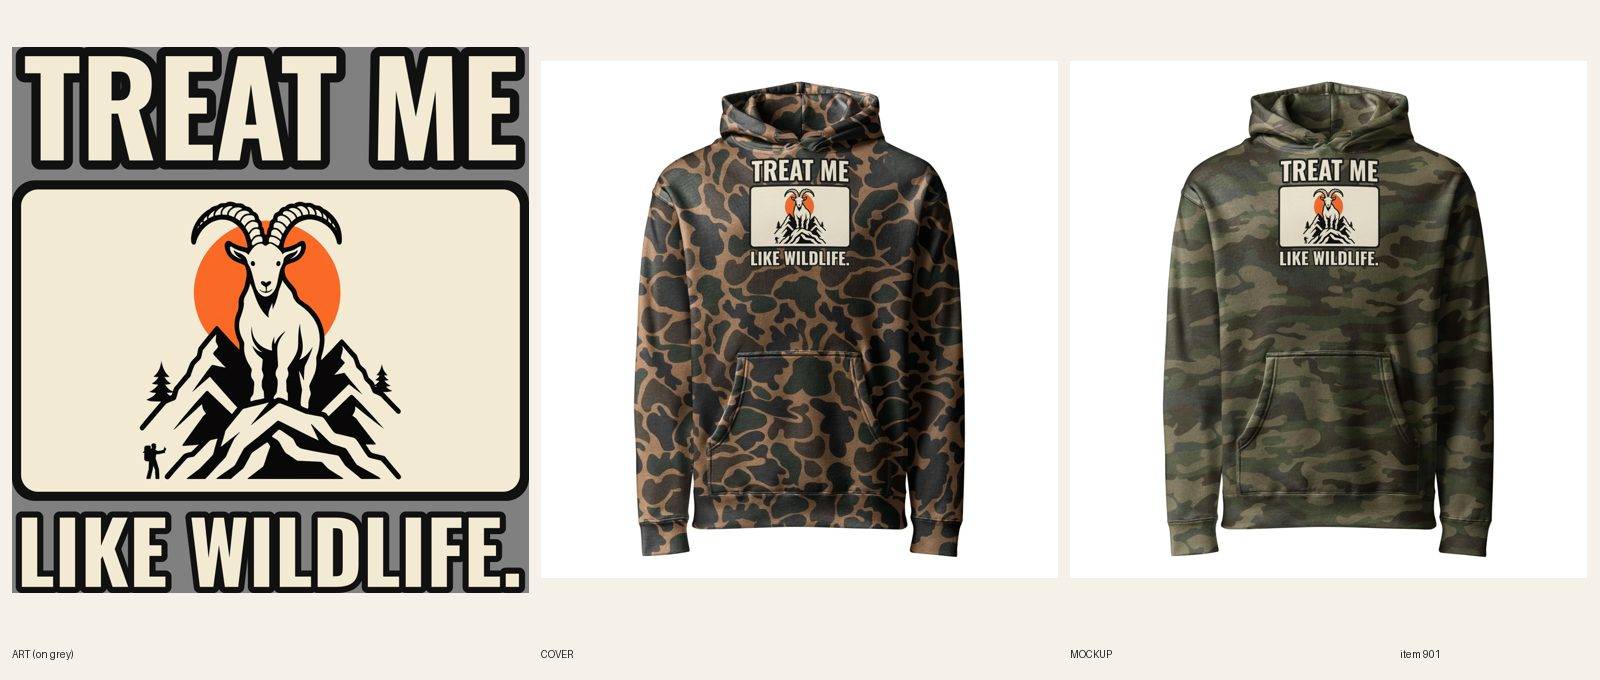
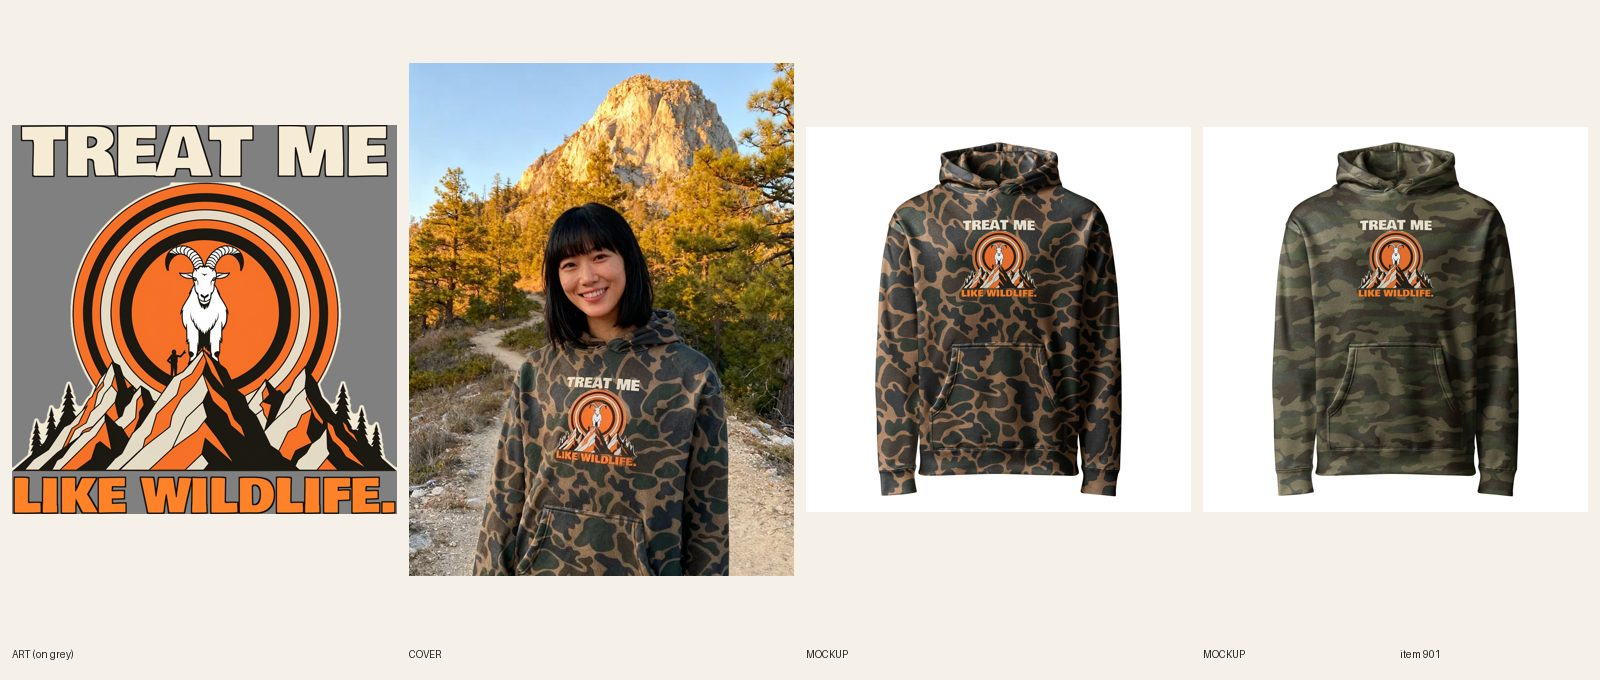
[B] review 901 camo redo 11 (retro goat A+ print, lifestyle photos)
Claude-Session: https://claude.ai/code/session_01JmH7HE2vEXJPHQjsQo1sTm

diff --git a/docs/pipeline/901-camo-twin-treat-me-like-wildlife.md b/docs/pipeline/901-camo-twin-treat-me-like-wildlife.md
@@ -1,4 +1,4 @@
-status: REDO
+status: REVIEW
 shopify: gid://shopify/Product/15372534874416
 cover: fal-swap
 lane: B
@@ -31,3 +31,4 @@ push: camo
 - 2026-10-22 23:16 UTC director: LIVE (ACTIVE + Online Store, Headless, Google & YouTube); cohesion-audit --handle PASS (1 warn: no lifestyle cover). Drip cap: today's 6 (#907 #908 #900 #901 #902 #955).
 - 2026-10-22 22:00 UTC Claude (Sam): REDO, camo redo #11 of 27, style S4. New art in its own style, no box, no condensed sans, placement per docs/backlog/camo-redo.md (never TOP 0). Redo in place.
 - 2026-10-22 22:40 UTC Claude (Sam): placement A/B test, this item is A+ (center 10 in, tag placement-a).
+- 2026-10-25 21:40 UTC [B]: camo-redo #11 (S4 70s retro on A+, tag placement-a), in place on product 15372534874416. New art: 1 Recraft call (goat on a peak in front of a concentric retro sun, tiny hiker thumb-measuring, flat cream/orange/black, no lettering), cream halo; TREAT ME above and LIKE WILDLIFE. below in Bowlby One (lane B last 5 faces: Playfair, Bevan, Rye, Lobster, Caveat Brush; Bowlby not among them), cream and blaze orange with dark keyline, no box. 7h: headline 2864 px / punch 2978 px (104%). Subject 3000 of 3000 px = 100%, type 701 of 3035 px. Print 3000 x 3035, FW1500 TOP400 (h 1518, TOP+h 1918 <= 2100). Light file n/a (Duck and Forest Camo only, cream with dark keyline). R7.7: 14/14 on file 1094870105, back logo 1080398177. Front mockups replaced in place (phone-size read OK). Copy, tags (placement-a) and FAQ rewritten from the art (5 x 40-60); title unchanged (same line). Lifestyle: registry 1155, 2 seedream calls kept (trailhead at first light cover, lakeside campfire at dusk; lettering legible, no hand over print), images 1-2, handle removed from retired-covers.json, covers.ts alt added. Audit PASS 0 warn. Sheet docs/review/901.jpg. Product is ACTIVE: director to confirm. fal ~$0.24 incl. 1 hung call.

diff --git a/docs/intake-log.md b/docs/intake-log.md
@@ -1,4 +1,5 @@
 RUNNING lane B since 2026-10-25 21:27 UTC
+2026-10-25 21:40 UTC — [B] REVIEW #901 Women's Hiking – Treat Me Like Wildlife Camo Hoodie (camo-redo 11 of 27, S4 on A+, FW1500 TOP400, 14/14 on 1094870105, headline 2864 / punch 2978 px = 104%, subject 100%, type 701 of 3035 px, Bowlby One; 2 lifestyle photos). Product ACTIVE, director to confirm. fal ~$0.24.
 2026-10-25 18:02 UTC — [B] Builder run end: 2 items, camo redo #9 #496 (sign-painter buck, A+) and #10 #224 (mallard Quack of Dawn, B3); both ACTIVE, director to confirm. New products today: 0 of 6. fal ~$1.8. Lock released.
 2026-10-25 18:01 UTC — [B] REVIEW #224 Men's Hunting – Quack of Dawn Camo Hoodie (camo-redo 10 of 27, S1 on B3, FW625 TOP300 LEFT1475, 14/14 on 1094696415 + 1094696454 (Sandstone light file), art 75% of height, Playfair Display; 2 lifestyle photos, soft-blur caption). fal ~$0.80.
 2026-10-25 17:56 UTC — [B] REVIEW #496 Men's Hunting – Not Lost. Scouting. Camo Hoodie (camo-redo 9 of 27, S7 on A+, FW1500 TOP400, 14/14 on 1094690930 + 1094691032 (Sandstone light file), headline 2860 / punch 2858 px = 100%, subject 65%, type 843 of 3250 px, Bevan; 2 lifestyle photos). Product ACTIVE, director to confirm. fal ~$1.02.
